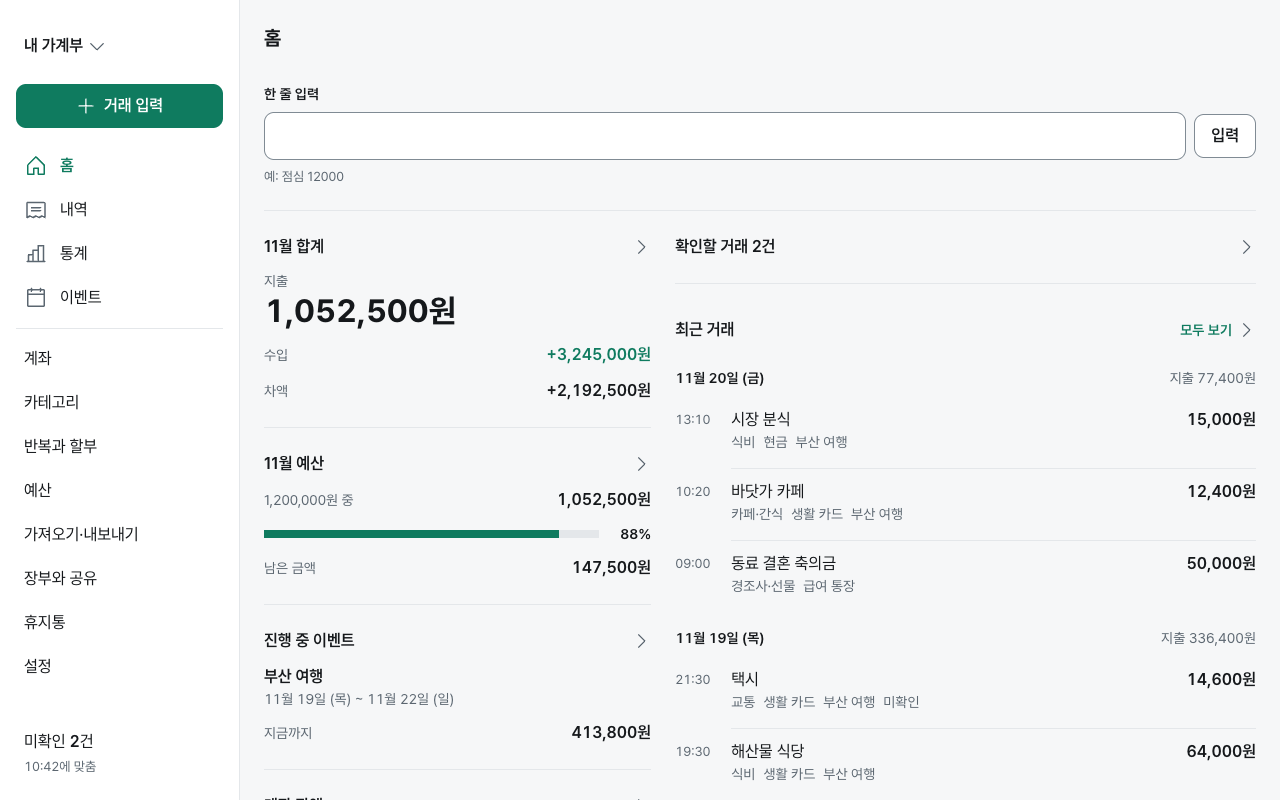
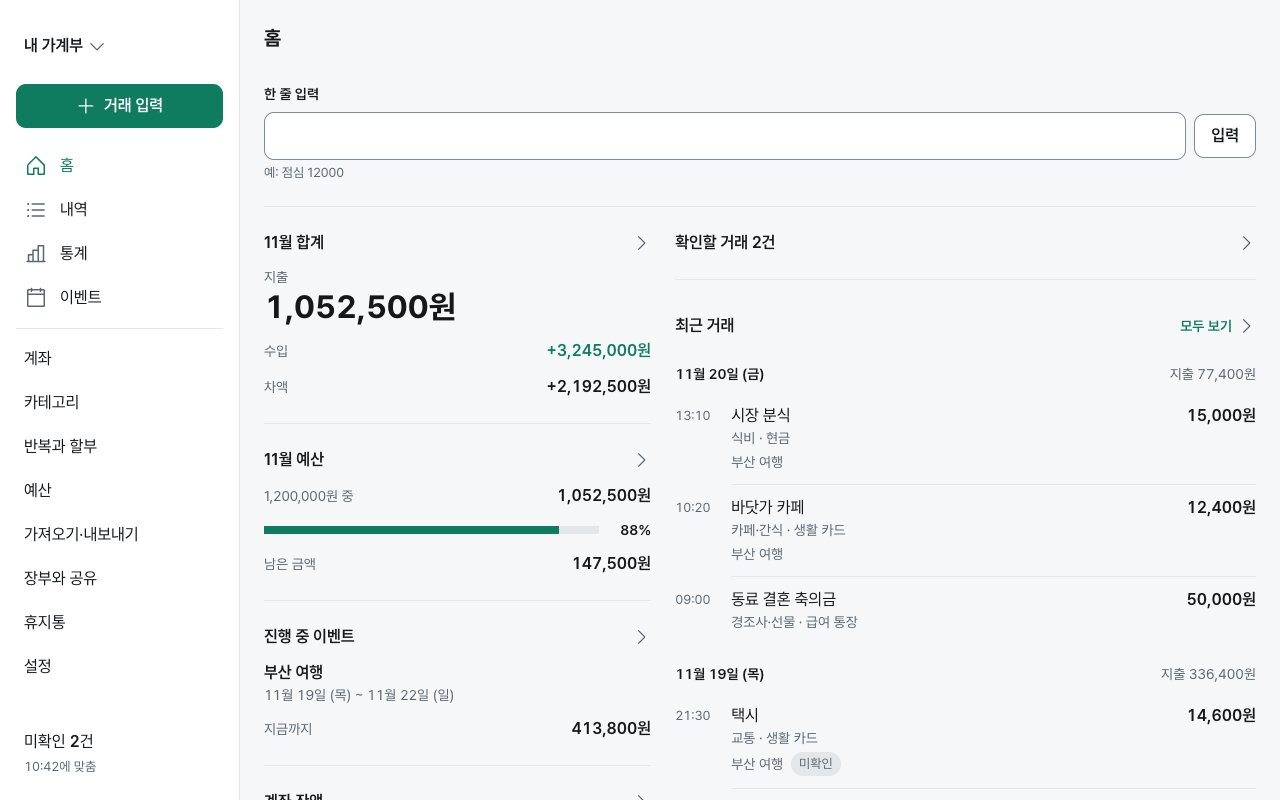
홈 세부 8건(designer)을 반영하고 확인 필요 L-9, L-11~L-17을 닫음
designer가 2026-11-24에 설계서 문장끼리 어긋나거나 수치가 없던 세부를
정했다(이슈 #102).

- drafts/: 거래 줄 구성, 아이콘, 간격을 설계서에 맞춰 다시 찍은 그림
  2장으로 덮어씀(복사본, 고치지 않음)
- layout-decisions.md: L-9, L-11~L-17 결정됨, L-10은 열어 둠. 1~4절의
  수치를 맞춤. 설계서 수정 필요 목록(L-2)에 고칠 곳을 더하고, 정해지지
  않은 값을 L-18에 적음
- components.md: 사이드바 값, 지금 화면 줄(C-8), 거래 줄, 권한을 모를
  때의 거래 입력 칸
- tokens.md: 구역 사이 24px, 큰 숫자, 두 칸, 사이드바 아이콘의 설명
- README.md: 결정 표 13~16, 3절의 예외, 6절 4번과 5번

diff --git a/docs/design/layout-decisions.md b/docs/design/layout-decisions.md
@@ -3,6 +3,7 @@
 - 작성일: 2026-11-24
 - 정정: 2026-11-23에 만든 홈 시안은 와이어프레임과 화면설계서 공통편만 보고 만들어 화면설계서 01 C-01(홈)과 달랐다.
 - 정정: 2026-11-24에 designer가 시안을 화면설계서에 맞게 바로잡고 결정 13~17을 정했다([이슈 #102](https://github.com/lomong7807/akkimpyo/issues/102)). 그림 3장을 새 그림 2장으로 바꿨다.
+- 세부: 2026-11-24에 designer가 설계서 문장끼리 어긋나거나 수치가 없던 세부 8건을 더 정했다(이슈 #102). 5절 L-11~L-17에 적고 1~4절의 수치에 반영했다.
 - 상태: owner가 시안 이미지를 보고 고른 배치 결정(10~12)과 designer 결정(13~17)을 수치로 적는다.
 - 시안은 설계서 토큰과 owner가 추가한 2색으로 만들었고 데이터는 목업 홈과 같다.
 - 그림은 참고이고 기준은 이 문서의 수치다. 시안을 바꾸려면 이 문서의 수치를 고치고 그림을 다시 찍는다.
@@ -26,26 +27,29 @@
 
 그림: [drafts/2026-11-24-home-1280x800.png](drafts/2026-11-24-home-1280x800.png)
 
-- 결정 10에서 남는 것: 왼쪽 사이드바, 전체 폭 한 줄 입력, 그 아래 두 칸, 두 칸은 따로 스크롤하지 않고 내용 영역 전체가 함께 스크롤된다(시안에서 쓴 값). 카드, 오른쪽 440px, 사이드바 수치는 결정 13과 15로 바뀌었다.
+- 결정 10에서 남는 것: 왼쪽 사이드바, 전체 폭 한 줄 입력, 그 아래 두 칸, 두 칸은 따로 스크롤하지 않고 내용 영역 전체가 함께 스크롤된다(시안에서 쓴 값). 카드, 오른쪽 440px, 사이드바 수치, 지금 화면 줄의 굵기 600은 결정 13과 15로 바뀌었다.
 - 틀: 상단 바가 없다(설계서 6.1). 왼쪽 사이드바 폭 240px(설계서 2.5), 오른쪽 내용 영역. 내용 영역 여백 24px(설계서 2.4).
-- 내용 영역: 맨 위에 화면 이름 "홈"(`text-title`), 그 아래 한 줄 입력을 전체 폭으로 두고, 그 아래를 두 칸으로 나눈다.
-- 두 칸: 왼쪽 칸은 내용 폭의 40%(화면설계서 01 C-01), 오른쪽 칸은 나머지, 칸 사이 24px.
+- 내용 영역: 맨 위에 화면 이름 "홈"(`text-title`), 그 아래 한 줄 입력을 전체 폭으로 두고, 그 아래를 두 칸으로 나눈다. 화면 이름 아래 간격은 8px이다(L-13).
+- 두 칸: 왼쪽 칸은 내용 폭의 40%(화면설계서 01 C-01), 오른쪽 칸은 나머지, 칸 사이 24px. 폭은 내용 영역 안쪽 폭에서 칸 사이 24px을 뺀 나머지를 2:3으로 나눈다(1280px 창에서 왼쪽 387px). 홈은 두 칸이라 설계서 2.5의 720px 제한을 적용하지 않는다(L-13).
 - 왼쪽 칸: 이번 달 합계, 예산, 진행 중 이벤트, 계좌 잔액. 오른쪽 칸: 확인할 거래, 최근 거래.
-- 구역은 카드로 감싸지 않는다(결정 13, 4.1).
-- 사이드바는 화면설계서 00-common 6.1~6.7 수치를 따른다. 구성과 순서는 다음과 같다.
+- 구역은 카드로 감싸지 않는다. 구역 사이의 선은 칸의 폭이다(결정 13, 4.1).
+- 사이드바는 화면설계서 00-common 6.1~6.7 수치를 따른다. 설계서에 없는 값은 designer 결정이다(L-14). 구성과 순서는 다음과 같다.
 
-| 자리(위에서부터) | 수치 | 설계서 절 |
-|------------------|------|-----------|
+| 자리(위에서부터) | 수치 | 근거 |
+|------------------|------|------|
+| 사이드바 안쪽 | 여백 위아래 24px, 좌우 16px, 요소 사이 16px | designer 결정(L-14) |
 | 장부 전환기 | `text-body-strong` | 6.3 |
 | "거래 입력" 주 버튼 | 높이 44px | 6.4의 4-1 |
-| 주 메뉴 4개 | 아이콘과 이름 | 6.2의 5-1~5-4 |
+| 메뉴 줄(주 메뉴와 더보기 항목) | 안쪽 좌우 8px | designer 결정(L-14) |
+| 주 메뉴 4개 | 아이콘 24px과 이름, 사이 12px | 6.2의 5-1~5-4, designer 결정(L-14) |
 | 더보기 항목 | 줄 높이 44px, 아이콘 없이 이름만 | 6.2의 5-6 |
 | 맨 아래 묶음 | "미확인 {N}건"과 마지막으로 맞춘 시각 | 6.7의 3-1, 6.5의 2-3 |
 
-- 지금 화면 항목은 설계서 6.2대로 강조하고 모양은 하단 탭과 같이 `color-accent`다([components.md](components.md) 10절 C-8).
+- 지금 화면 줄은 설계서 6.2대로 강조한다. 색만 `color-accent`로 바꾸고 굵기는 바꾸지 않는다(하단 탭과 같다. [components.md](components.md) 10절 C-8, L-14).
 - 버린 안(결정 10): 한 칸을 가운데 720px로 두는 배치. 이유: 최근 거래가 첫 화면에서 보이지 않는다.
 - 버린 안(결정 15): 오른쪽 칸 440px 고정, 11-23 시안의 사이드바 값(아이콘 있는 더보기 항목, 48px 버튼, 장부 이름 `text-title`), 카드. 이유: 설계서 값이 아니고 1024~1111px 폭에서 수치가 맞지 않는다.
-- 확인 필요: 5절 L-9, L-13, L-14.
+- 버린 안(세부): 지금 화면 줄의 굵기 600(결정 10). 이유: 하단 탭과 같게 색만 바꾼다.
+- 정해진 세부: 5절 L-9, L-13, L-14. 확인 필요: 5절 L-18.
 
 ## 2. 빠른 입력 버튼은 하단 탭의 가운데 칸 (owner 결정 11, designer 결정 16)
 
@@ -57,20 +61,20 @@
 - 모양: 44x44px, `color-accent` 바탕, `color-on-accent` Plus 아이콘 24px, 모서리 10px, 그림자 없음, 글자 없음. 접근성 이름 "거래 입력". 칸 안에서 가운데.
 - 칸 순서: 홈, 내역, 거래 입력, 통계, 이벤트, 더보기(6칸, 같은 폭). 이벤트 탭이 없는 1단계는 홈, 내역, 거래 입력, 통계, 더보기(5칸).
 - 보이는 범위(designer 결정 16): 하단 탭이 보이는 모든 화면에서 보이고 보기 전용 구성원에게만 숨긴다.
+- 권한을 아직 모를 때(L-16): 거래 입력 칸의 자리를 비워 두고(다른 탭의 자리는 그대로), 보기 전용으로 확인되면 칸을 없애고 나머지 탭을 같은 폭으로 다시 나눈다.
 - 떠 있는 버튼이 없어지므로 내용 아래 여백은 버튼 몫을 빼고 24px이다. 토스트는 하단 탭 위 16px, 좌우 여백 16px의 폭이다.
 - 넓은 화면은 그대로 사이드바의 "거래 입력" 버튼이다.
 - 버린 안(결정 11): (1) 하단 탭 위에 전체 폭 "거래 입력" 줄을 두는 안. 이유: 모든 화면에서 내용 높이가 65px 줄어든다. (2) 떠 있는 버튼을 그대로 두는 안. 이유: 스크롤 중 목록의 금액을 가린다(390x844에서 `npx impeccable detect`가 금액 83% 가림으로 잡음).
 - 버린 안(결정 16): 설정과 공통 상태 화면에서 숨김(와이어프레임 00-common 3.1). 이유: 화면에 따라 탭 칸 수가 바뀌면 탭 위치가 움직인다.
-- 확인 필요: 5절 L-2, L-3, L-8, L-16. L-1은 결정 16으로 결정됨.
+- 확인 필요: 5절 L-2, L-3, L-8, L-18. L-1은 결정 16으로, L-16은 세부로 결정됨.
 
 ## 3. 휴대폰 배치의 묶음 사이 간격 (owner 결정 12)
 
 그림: 2절의 [drafts/2026-11-24-home-390x844.png](drafts/2026-11-24-home-390x844.png)
 
-- 홈처럼 묶음이 위아래로 쌓이는 화면에서 묶음 사이는 24px이다(설계서 2.4). 첫 묶음 위도 24px.
+- 홈처럼 묶음이 위아래로 쌓이는 화면에서 묶음 사이는 24px이다(설계서 2.4). 첫 묶음 위도 24px. 이 24px은 구역의 내용과 경계 사이로 읽는다(L-11). 홈에서는 선 위아래에 각각 24px이다.
 - 홈의 묶음은 상자나 흰 면으로 감싸지 않고 구분선과 여백으로 나눈다(designer 결정 13, 4.1). 좌우 여백은 16px, 묶음 안 요소 사이는 12px이다. 다른 화면은 화면별 설계서와 와이어프레임 00-common 4절 규칙 7을 따른다.
 - 버린 안: 8px(목업의 값). 이유: 설계서 값이 아니고 묶음의 경계가 덜 분명하다.
-- 확인 필요: 5절 L-11.
 
 ## 4. 홈의 구역, 이번 달 합계, 예산 막대 (designer 결정 13, 14, 17)
 
@@ -79,18 +83,20 @@
 ### 4.1 구역 나누기 (결정 13)
 
 - 홈의 구역은 상자로 감싸지 않고 구분선과 여백으로 나눈다(화면설계서 01 C-01).
-- 구역 사이에 1px `color-border` 선, 선 위아래 여백 24px. 구역 안 요소 사이 12px.
+- 구역 사이에 1px `color-border` 선, 선 위아래에 각각 여백 24px. 구역 안 요소 사이 12px.
+- 휴대폰에서 선은 화면 좌우 끝까지 닿는다. 넓은 화면에서 선은 칸의 폭이다(L-11).
 - 휴대폰 좌우 여백 16px, 넓은 화면 내용 영역 여백 24px.
 - 버린 안: 흰 면 묶음과 카드(11-23 시안). 이유: 설계서 정의와 다르고 상자가 늘어난다.
-- 확인 필요: 5절 L-11.
 
 ### 4.2 이번 달 합계 (결정 14)
 
 - 지출만 큰 숫자다: `text-hero`, 왼쪽 정렬, 위에 "지출" 레이블(`text-secondary`).
 - 그 아래 수입과 차액은 줄이다.
+- 큰 숫자는 줄의 금액이 아니라 화면의 머리 숫자라 왼쪽 정렬이다. 금액 오른쪽 정렬 규칙은 이름과 금액이 한 줄에 있는 줄에 적용한다(L-12).
+- 큰 숫자는 줄바꿈하지 않고, 칸 폭을 넘으면(글자 크기 200% 등) `text-title` 크기로 내린다. 구현 검토 때 200%에서 확인한다(L-12).
 - 화면설계서 01 C-01 (2)의 세 줄과 다르다. 설계서 수정 필요 목록(5절 L-2)에 넣었다.
 - 버린 안: 수입, 지출, 차액 세 줄. 이유: 홈에서 가장 먼저 보일 것이 하나 서야 하고 공통편에 "홈의 큰 금액" 글자 단계가 이미 있다.
-- 확인 필요: 5절 L-2, L-12.
+- 확인 필요: 5절 L-2.
 
 ### 4.3 예산 막대 (결정 17)
 
@@ -98,37 +104,40 @@
 - 공통편 2.6의 "지출 막대는 `color-text-secondary`"는 통계 그래프에 적용한다.
 - 버린 안: 회색 막대(11-23 시안).
 
-### 4.4 설계서대로 바로잡은 것 (결정이 아니라 정정)
+### 4.4 설계서대로 바로잡은 것 (정정과 세부)
 
 | 곳 | 바로잡은 모양 | 설계서 |
 |----|---------------|--------|
 | 홈 한 줄 입력의 "입력" | 보조 버튼(높이 44px) | 01 C-01 (1), 00-common 5.1 |
 | 상단 바의 장부 이름 | `text-body-strong` | 00-common 6.3 |
 | 미확인 배지 | 00-common 6.7의 모양 | 00-common 6.7의 3 |
-| 홈의 거래 줄 둘째 줄 | 카테고리, 계좌, 이벤트 이름, 미확인을 보조 글자로 적는다(칩이 아니다). "보내지 않음"만 표시 칩이다 | 01 C-01 (9), (10) |
+| 홈의 거래 줄 | 02의 0.4(거래 줄 공통 부품)를 따른다. 둘째 줄은 "카테고리 · 계좌", 셋째 줄에 이벤트 이름(보조 글자)과 상태 칩이 온다. "미확인"은 표시 칩이다(L-15) | 02의 0.4, 01 C-01 (9) |
+| 아이콘 | 내역 ListBullets, 이벤트 CalendarBlank(L-17) | 00-common 6.2의 5-2, 5-4 |
+| 한 줄 입력의 도움말 | 입력칸 아래 4px(L-17) | 00-common 2.4, 5.2 |
 
-- 확인 필요: 5절 L-15.
+- 버린 안(세부): "미확인"을 보조 글자로. 이유: 02의 0.4와 00-common 5.11은 칩이다.
 
 ## 5. 확인 필요
 
-"열림"인 항목은 owner가 답하기 전에는 구현에서 임의로 정하지 않는다. 정해진 항목은 지우지 않고 상태를 바꿔 남긴다. L-1과 L-2는 designer가 적었고, L-3부터는 이 문서를 옮겨 쓰며 설계서, 와이어프레임, 시안 CSS와 대조하다 찾은 것이다(값은 정하지 않았다). L-10부터는 2026-11-24 정정 때 더했다.
+"열림"인 항목은 정해지기 전에는 구현에서 임의로 정하지 않는다(누가 정하는지는 [README](README.md) 6절). 정해진 항목은 지우지 않고 상태를 바꿔 남긴다. L-1과 L-2는 designer가 적었고, L-3부터는 이 문서를 옮겨 쓰며 설계서, 와이어프레임, 시안 CSS와 대조하다 찾은 것이다(값은 정하지 않았다). L-10부터는 2026-11-24 정정 때 더했다.
 
 | # | 상태 | 내용 | 관련 |
 |---|------|------|------|
 | L-1 | 결정됨(designer 결정 16, 2026-11-24) | 설계서는 빠른 입력 버튼을 M 그룹(설정), N 그룹 화면에서 숨긴다(와이어프레임 00-common 3.1). 탭의 한 칸이 되면 화면에 따라 탭 칸 수가 바뀌어 탭 위치가 움직인다. 결정: 하단 탭이 보이는 모든 화면에서 보이고 보기 전용 구성원에게만 숨긴다 | 결정 11, 16 |
-| L-2 | 열림(설계서 수정) | 결정 11에 맞춰 고쳐야 하는 기준 문서: 와이어프레임 00-common 3.1의 (4)와 (5), 화면설계서 00-common의 2.4(빠른 입력 버튼 그림자와 56x56px), 5.7(토스트 폭), 6.1(내용 아래 여백), 6.2(B-01), 6.4(B-03), 기능정의서 F-102. 결정 14에 맞춰 고쳐야 하는 기준 문서: 화면설계서 01 C-01 (2). 결정 16에 맞춰 고쳐야 하는 기준 문서: 기능정의서 F-102와 와이어프레임 00-common 3.1의 보이는 범위. 이 폴더는 `docs/planning`을 고치지 않는다 | 결정 11, 14, 16 |
+| L-2 | 열림(설계서 수정) | 설계서 수정 필요 목록이다. 결정 11에 맞춰 고쳐야 하는 기준 문서: 와이어프레임 00-common 3.1의 (4)와 (5), 화면설계서 00-common의 2.4(빠른 입력 버튼 그림자와 56x56px), 5.7(토스트 폭), 6.1(내용 아래 여백), 6.2(B-01), 6.4(B-03), 기능정의서 F-102. 결정 14에 맞춰 고쳐야 하는 기준 문서: 화면설계서 01 C-01 (2), C-01의 "금액은 모두 숫자 폭 고정(tabular-nums), 오른쪽 정렬"과 데이터 없음의 "수입 0원", "지출 0원", "차액 0원" 순서, 00-common 2.2의 금액 정렬, 와이어프레임 00-common 4절 규칙 4, 와이어프레임 01 C-01 그림의 (2). 결정 16에 맞춰 고쳐야 하는 기준 문서: 기능정의서 F-102와 와이어프레임 00-common 3.1의 보이는 범위. L-11에 맞춰: 화면설계서 00-common 2.4의 "묶음(섹션) 사이 24px"(읽는 법). L-13에 맞춰: 화면설계서 00-common 2.5의 720px 제한(홈은 적용하지 않음). L-15에 맞춰: 화면설계서 01 C-01 (9)와 (10)의 둘째 줄, 와이어프레임 01 C-01 그림의 (10), 화면설계서 02 0.4의 쓰는 곳(C-01이 없다). 이 폴더는 `docs/planning`을 고치지 않는다 | 결정 11, 14, 16, L-11, L-13, L-15 |
 | L-3 | 열림(설계서 수정) | L-2 말고도 떠 있는 빠른 입력 버튼을 적은 곳이 더 있다(grep으로 찾음): 화면설계서 00-common 2.5의 두 줄(768px 미만, 768px 이상 1024px 미만), 2.6의 층 순서, 6.1의 표 (4), 6.6의 B-05 공통 틀 줄, 9절 판단 47과 54, IA 2절 B-03, 화면설계서 01과 와이어프레임 01의 "공통 틀" 줄들(M 그룹, N 그룹, A-08, A-09에 "빠른 입력 버튼은 없다") | 결정 11 |
 | L-4 | 결정됨(설계서를 따름, designer 결정 15, 2026-11-24) | 결정 10의 처음 수치가 기준 문서와 달랐다: 화면설계서 01 C-01의 넓은 화면(왼쪽이 "내용 폭의 40%"), C-01의 "구역은 상자로 감싸지 않고 구분선과 여백으로 나눈다"와 와이어프레임 00-common 4절 규칙 7(상자는 꼭 필요한 곳에만), 00-common 6.2의 5-6(더보기 항목은 "아이콘 없이 이름만"), 6.3(장부 전환기 이름은 `text-body-strong`), 6.4의 4-1(사이드바 거래 입력 버튼 높이 44px), 6.7의 3-1(사이드바 글자는 "미확인 {N}건", `text-body`). 결정: 모두 설계서를 따른다(상자는 결정 13). 이 항목으로 고칠 기준 문서는 없다 | 결정 10, 13, 15 |
 | L-5 | 결정됨(홈, designer 결정 15, 2026-11-24) | 결정 10의 처음 수치로는 폭 1024px 이상 1112px 미만에서 왼쪽 칸 최소 360px을 지킬 수 없었다(사이드바 240 + 여백 24 + 왼쪽 360 + 간격 24 + 오른쪽 440 + 여백 24 = 1112px). 결정: 왼쪽 칸은 내용 폭의 40%다. 목록 화면에 남는 것은 L-10 | 결정 10, 15 |
 | L-6 | 결정됨(항목별, 2026-11-24) | 11-23 시안의 그림이 설계서와 달랐던 곳과 결정: (1) "입력" 버튼이 주 버튼이라 넓은 화면에 주 버튼이 둘이었다: 설계서대로 보조 버튼이다(화면설계서 01 C-01 (1)). (2) 이번 달 합계가 지출(`text-hero`), 수입, 차액 순서였다: 결정 14. (3) 예산 막대의 채움이 `color-text-secondary`였다: 결정 17. (4) 휴대폰 상단 바의 장부 이름이 20px, 700이고 확인할 거래가 아이콘과 숫자였다: 설계서대로 한다(00-common 6.3, 6.7) | 결정 14, 17, 4.4 |
 | L-7 | 해당 없음(시안 값 삭제, 2026-11-24) | 11-23 시안 CSS에는 있으나 결정의 수치에 없는 간격이 있었다: 사이드바 메뉴 줄과 장부 전환기의 좌우 안쪽 8px, 메뉴 구분선의 위아래 8px, 맨 아래 건수와 시각 사이 4px, 하단 탭의 좌우 16px(390px에서 칸 폭 약 60px) | 결정 10, 11 |
 | L-8 | 열림 | 6칸일 때 거래 입력은 셋째 칸이라 한가운데가 아니다. 한가운데가 되는 것은 1단계의 5칸이다. 2절 제목의 "가운데 칸"과 칸 순서가 어긋나며, 순서는 결정 11에 적힌 대로 두었다 | 결정 11 |
-| L-9 | 열림 | 사이드바 맨 아래 묶음의 "보내지 않은 입력 {N}건"(화면설계서 6.5의 2-4)은 시안에 보이지 않고 결정에 자리와 모양이 없다. 사이드바 더보기 항목 8개의 아이콘 이름도 화면설계서에 없다(6.2는 아이콘을 두지 않는다) | 결정 10 |
-| L-10 | 열림 | L-5에 함께 적었던 것 가운데 목록 화면에 남는 것: 설계서 2.5의 목록 칸 최소 360px과 오른쪽 칸 440px을 더하면 800px이라 1024px 폭의 내용 영역 784px보다 크다. 결정 15는 홈만 정한다 | 설계서 2.5 |
-| L-11 | 열림 | 결정 12의 "묶음 사이 24px"과 결정 13의 "선 위아래 여백 24px"을 함께 두면 위아래 두 구역의 내용 사이는 24 + 1 + 24 = 49px이다(그림도 그렇다). 설계서 2.4의 "묶음(섹션) 사이 24px"을 선 한쪽의 여백으로 읽는 것이 맞는지 적혀 있지 않다. 휴대폰의 선이 화면 좌우 끝까지 닿는지도 적혀 있지 않다(그림은 휴대폰 390px 전체, 넓은 화면은 여백 24px 안) | 결정 12, 13 |
-| L-12 | 열림 | 결정 14에 맞춰 고칠 곳이 C-01 (2) 말고도 있다: C-01의 "금액은 모두 숫자 폭 고정(tabular-nums), 오른쪽 정렬"과 와이어프레임 00-common 4절 규칙 4(결정 14는 왼쪽 정렬), C-01 데이터 없음의 "수입 0원", "지출 0원", "차액 0원" 순서, 와이어프레임 01 C-01 그림의 (2). 또 글자를 200%로 키우면(설계서 2.3, F-903) 큰 숫자가 휴대폰 내용 폭을 넘을 수 있다: 그림에서 잰 "1,052,500원"이 약 185px이라 두 배면 약 370px이고 390px 폭의 내용 폭은 358px이다(추정). 넘칠 때 어떻게 보일지 정해져 있지 않다 | 결정 14 |
-| L-13 | 열림 | "내용 폭의 40%"에서 내용 폭이 무엇인지 적혀 있지 않다. 1280px 화면에서 여백을 뺀 992px의 40%는 396.8px, 여백을 포함한 1040px의 40%는 416px이고, 그림은 칸 사이 24px까지 뺀 968px의 40%인 387px이다. 설계서 2.5는 목록 화면이 아니면 내용 폭을 가운데 720px로 제한하는데 그림은 제한하지 않았다. 화면 이름 "홈"과 한 줄 입력 사이 간격(그림 32px)도 정해져 있지 않다 | 결정 15 |
-| L-14 | 열림 | 사이드바에 설계서 6.1~6.7로 정해지지 않는 값이 있다: 안쪽 여백과 요소 사이 간격, 주 메뉴 줄의 높이, 글자 단계, 아이콘 크기(2.4는 하단 탭 24px, 줄 안 20px이고 그림은 24px). 지금 화면 줄의 글자 굵기도 어긋난다: 결정 10과 그림은 600이고 C-8은 `color-accent`만 정한다(하단 탭은 6.2에서 색만 바꾼다) | 결정 10, 15, [components.md](components.md) C-8 |
-| L-15 | 열림 | 거래 줄의 정의가 설계서끼리 다르다. "미확인"은 01 C-01 (9)에서는 둘째 줄 보조 글자이고, 00-common 5.11과 02의 0.4, D-01 (11)에서는 칩이다. 결제한 사람과 이벤트 이름은 C-01 (9)에서는 둘째 줄, 02의 0.4에서는 셋째 줄이다. 카테고리와 계좌 사이는 02의 0.4에서는 가운뎃점("식비 · 신한카드")이고 그림에서는 간격이다. C-01 (9)는 "줄 구성은 내역(F-215)과 같다"고도 적는다. 4.4는 C-01 (9)를 따랐다. 홈과 내역의 거래 줄을 같은 모양으로 할지 정해져 있지 않다 | 4.4 |
-| L-16 | 열림 | 설계서 6.4는 현재 장부의 권한을 아직 모르면(앱을 처음 열 때) 빠른 입력 버튼을 그리지 않는다. 하단 탭에 그대로 쓰면 권한을 받는 순간 칸 수가 늘어 탭 위치가 움직인다. 자리를 비워 둘지 정해져 있지 않다 | 결정 11, 16 |
-| L-17 | 열림 | 그림에 설계서와 다른 곳이 남아 있다: 내역 아이콘이 영수증 모양이다(두 그림. 6.2는 ListBullets). 휴대폰 이벤트 탭 아이콘이 별이 든 달력이다(6.2는 CalendarBlank). 한 줄 입력의 칸과 도움말 사이가 8px이다(2.4와 5.2는 4px). 결정에 없는 값이므로 설계서를 따른다(README 3절). 그림을 다시 찍을지 정해져 있지 않다 | 그림 두 장 |
+| L-9 | 결정됨(designer 결정 15, 2026-11-24) | 사이드바 맨 아래 묶음의 "보내지 않은 입력 {N}건"(화면설계서 6.5의 2-4)은 시안에 보이지 않고 결정 10에 자리와 모양이 없었다. 사이드바 더보기 항목 8개의 아이콘 이름도 화면설계서에 없다(6.2는 아이콘을 두지 않는다). 결정: 보내지 않은 입력 줄은 00-common 6.5의 2-4를 따르고, 더보기 항목에는 아이콘을 두지 않는다 | 결정 10, 15 |
+| L-10 | 열림(내역 화면 시안을 만들 때 designer가 정한다) | L-5에 함께 적었던 것 가운데 목록 화면에 남는 것: 설계서 2.5의 목록 칸 최소 360px과 오른쪽 칸 440px을 더하면 800px이라 1024px 폭의 내용 영역 784px보다 크다. 결정 15는 홈만 정한다 | 설계서 2.5 |
+| L-11 | 결정됨(designer 2026-11-24) | 결정 12의 "묶음 사이 24px"과 결정 13의 "선 위아래 여백 24px"을 함께 두면 위아래 두 구역의 내용 사이는 24 + 1 + 24 = 49px이다. 설계서 2.4의 "묶음(섹션) 사이 24px"을 선 한쪽의 여백으로 읽는지, 휴대폰의 선이 화면 좌우 끝까지 닿는지 적혀 있지 않았다. 결정: 구역 사이는 1px `color-border` 선이고 선 위아래에 각각 24px을 둔다. 결정 12의 24px은 "구역의 내용과 경계 사이"로 읽는다. 휴대폰에서 선은 화면 좌우 끝까지 닿는다. 넓은 화면에서 선은 칸의 폭이다(그림에서 한 줄 입력 아래의 선은 두 칸에 걸친 992px이다) | 결정 12, 13 |
+| L-12 | 결정됨(designer 2026-11-24) | 결정 14의 왼쪽 정렬이 C-01의 "금액은 모두 숫자 폭 고정(tabular-nums), 오른쪽 정렬"과 와이어프레임 00-common 4절 규칙 4와 달랐고, 글자를 200%로 키우면(설계서 2.3, F-903) 큰 숫자가 휴대폰 내용 폭을 넘을 수 있었다: 그림에서 잰 "1,052,500원"이 약 185px이라 두 배면 약 370px이고 390px 폭의 내용 폭은 358px이다(추정). 결정: 큰 숫자는 줄의 금액이 아니라 화면의 머리 숫자라 왼쪽 정렬이다. 금액 오른쪽 정렬 규칙은 "이름과 금액이 한 줄에 있는 줄"에 적용한다. 큰 숫자는 줄바꿈하지 않고, 칸 폭을 넘으면(글자 크기 200% 등) `text-title` 크기로 내린다. 구현 검토 때 200%에서 확인한다. 고칠 기준 문서는 L-2 | 결정 14 |
+| L-13 | 결정됨(designer 2026-11-24) | "내용 폭의 40%"에서 내용 폭이 무엇인지 적혀 있지 않았다(1280px 화면에서 여백을 뺀 992px의 40%는 396.8px, 여백을 포함한 1040px의 40%는 416px). 설계서 2.5는 목록 화면이 아니면 내용 폭을 가운데 720px로 제한한다. 결정: 두 칸의 폭은 내용 영역 안쪽 폭에서 칸 사이 24px을 뺀 나머지를 2:3으로 나눈다(1280px 창에서 왼쪽 387px). 홈은 두 칸이라 2.5의 720px 제한을 적용하지 않는다. 화면 이름 아래 간격은 8px이다 | 결정 15 |
+| L-14 | 결정됨(designer 2026-11-24) | 사이드바에 설계서 6.1~6.7로 정해지지 않는 값이 있었고(2.4의 아이콘 크기에는 사이드바가 없다), 지금 화면 줄의 글자 굵기가 결정 10(600)과 C-8(색만)에서 달랐다. 결정: 안쪽 여백 위아래 24px, 좌우 16px, 요소 사이 16px, 메뉴 줄 안쪽 좌우 8px, 주 메뉴 아이콘 24px과 이름 사이 12px. 지금 화면 줄은 색만 `color-accent`로 바꾸고 굵기는 바꾸지 않는다(하단 탭과 같다). 버린 안: 지금 화면 줄의 굵기 600. 남은 값은 L-18 | 결정 10, 15, [components.md](components.md) C-8 |
+| L-15 | 결정됨(designer 2026-11-24) | 거래 줄의 정의가 설계서끼리 달랐다. "미확인"은 01 C-01 (9)에서는 둘째 줄 보조 글자이고, 00-common 5.11과 02의 0.4, D-01 (11)에서는 칩이다. 결제한 사람과 이벤트 이름은 C-01 (9)에서는 둘째 줄, 02의 0.4에서는 셋째 줄이다. 결정: 거래 줄은 화면설계서 02의 0.4(거래 줄 공통 부품)를 따른다. 둘째 줄은 "카테고리 · 계좌", 셋째 줄에 이벤트 이름(보조 글자)과 상태 칩이 온다. "미확인"은 표시 칩이다. C-01 (9)도 "줄 구성은 내역(F-215)과 같다"고 적으므로 0.4가 기준이다. 버린 안: "미확인"을 보조 글자로. 고칠 기준 문서는 L-2 | 4.4 |
+| L-16 | 결정됨(designer 2026-11-24) | 설계서 6.4는 현재 장부의 권한을 아직 모르면(앱을 처음 열 때) 빠른 입력 버튼을 그리지 않는다. 하단 탭에 그대로 쓰면 권한을 받는 순간 칸 수가 늘어 탭 위치가 움직인다. 결정: 권한을 아직 모를 때는 거래 입력 칸의 자리를 비워 두고(다른 탭의 자리는 그대로), 보기 전용으로 확인되면 칸을 없애고 나머지 탭을 같은 폭으로 다시 나눈다 | 결정 11, 16 |
+| L-17 | 결정됨(designer 2026-11-24) | 앞선 그림이 설계서와 다른 곳이 있었다: 내역 아이콘(영수증 모양), 휴대폰 이벤트 탭 아이콘(별이 든 달력), 한 줄 입력의 칸과 도움말 사이(8px). 결정: 아이콘과 간격은 설계서를 따른다(내역 ListBullets, 이벤트 CalendarBlank, 도움말은 입력칸 아래 4px). 새 그림은 이 값으로 찍었다 | 그림 두 장 |
+| L-18 | 열림 | 그림에는 있으나 결정과 설계서에 없거나 다른 값이 남아 있다: (1) 사이드바 주 메뉴 줄의 높이와 글자 단계(그림 44px, `text-body`). (2) 메뉴 구분선의 위아래(그림 8px), 사이드바 맨 아래 건수와 시각 사이(그림 4px), 하단 탭의 좌우 안쪽(그림 16px), 거래 줄의 둘째 줄과 셋째 줄 사이(그림 4px). (3) 넓은 화면 홈의 거래 줄 좌우 안쪽(그림 0, 설계서 2.4의 목록 줄은 16px). (4) 화면 이름 아래 8px(L-13) 다음에 첫 구역의 위 여백 24px이 더 붙는지(그림은 붙어서 이름과 "한 줄 입력" 사이가 32px) | 결정 15, L-13, L-14, L-15 |

diff --git a/docs/design/components.md b/docs/design/components.md
@@ -26,10 +26,10 @@
 |----------|---------|------|-----------------|------|----|
 | 상단 바(주 화면, 기본 형태) | 탭의 첫 화면(C-01, D-01, E-01, F-01, M-01)과 N 그룹. 휴대폰 배치만 | `color-surface` 바탕, 아래 1px `color-border` 선, 모서리 0. 왼쪽 장부 전환기, 오른쪽 동기화 상태 표시와 미확인 배지. 화면 제목을 두지 않는다 | 높이 56px + 위쪽 안전 영역 | 바 자체는 누를 수 없다 | 6.1, 2.4 |
 | 상단 바(하위 화면) | 목록에서 들어간 상세, 설정, 관리 화면. 휴대폰 배치만 | 왼쪽 뒤로 아이콘 버튼(CaretLeft, 접근성 이름 "뒤로"), 그 오른쪽 화면 이름(`text-title`, 왼쪽 정렬, 한 줄, 넘치면 말줄임표), 오른쪽 끝 화면별 버튼, 그 왼쪽에 동기화 상태 표시. 장부 전환기와 미확인 배지는 없다 | 높이 56px + 위쪽 안전 영역 | 공통 | 6.1, 2.4 |
-| 하단 탭 | 휴대폰 배치(폭 1024px 미만)의 주 내비게이션 | `color-surface` 바탕, 위 1px `color-border` 선, 모서리 0. 칸 폭을 똑같이 나누고 칸마다 아이콘(24px) 위, 이름(`text-caption`) 아래. 고른 탭은 아이콘과 이름이 `color-accent`, 나머지는 `color-text-secondary`. 굵기는 바꾸지 않는다. 칸 순서는 홈, 내역, 거래 입력, 통계, 이벤트, 더보기(6칸)이고, 이벤트 탭이 없는 1단계는 홈, 내역, 거래 입력, 통계, 더보기(5칸)다(owner 결정 11). 거래 입력 칸은 하단 탭이 보이는 모든 화면에서 보이고 보기 전용 구성원에게만 없다(designer 결정 16) | 높이 56px + 아래쪽 안전 영역 | 고른 탭에 `aria-current="page"`. 화면 키보드가 올라오면 숨긴다. 전체 화면 입력에는 없다 | owner 결정 11, designer 결정 16([layout-decisions.md](layout-decisions.md) 2절), 6.2, 6.1 |
-| 사이드바 | 넓은 화면(1024px 이상)의 주 내비게이션 | `color-surface` 바탕, 오른쪽 1px `color-border` 선, 모서리 0. 위에서부터 장부 전환기, 거래 입력 버튼, 주 메뉴(4개, 아이콘과 이름), 구분선, 더보기 항목(`text-body`, 아이콘 없이 이름만), 맨 아래 묶음(미확인, 보내지 않은 입력, 마지막으로 맞춘 시각)은 늘 보이게 고정 | 폭 240px. 더보기 항목 줄 높이 44px | 메뉴 줄은 눌림과 마우스 올림에 `color-press`. 지금 화면 항목(더보기 항목 포함)을 강조하고 모양은 하단 탭과 같이 `color-accent`다(10절 C-8) | 6.1, 6.2, 6.5, 6.7, 2.5, designer 결정 15([layout-decisions.md](layout-decisions.md) 1절). 정해지지 않은 값은 layout-decisions.md 5절 L-9, L-14 |
+| 하단 탭 | 휴대폰 배치(폭 1024px 미만)의 주 내비게이션 | `color-surface` 바탕, 위 1px `color-border` 선, 모서리 0. 칸 폭을 똑같이 나누고 칸마다 아이콘(24px) 위, 이름(`text-caption`) 아래. 고른 탭은 아이콘과 이름이 `color-accent`, 나머지는 `color-text-secondary`. 굵기는 바꾸지 않는다. 칸 순서는 홈, 내역, 거래 입력, 통계, 이벤트, 더보기(6칸)이고, 이벤트 탭이 없는 1단계는 홈, 내역, 거래 입력, 통계, 더보기(5칸)다(owner 결정 11). 거래 입력 칸은 하단 탭이 보이는 모든 화면에서 보이고 보기 전용 구성원에게만 없다(designer 결정 16). 권한을 아직 모를 때는 그 칸의 자리를 비워 둔다(layout-decisions.md 5절 L-16) | 높이 56px + 아래쪽 안전 영역 | 고른 탭에 `aria-current="page"`. 화면 키보드가 올라오면 숨긴다. 전체 화면 입력에는 없다 | owner 결정 11, designer 결정 16([layout-decisions.md](layout-decisions.md) 2절), 6.2, 6.1 |
+| 사이드바 | 넓은 화면(1024px 이상)의 주 내비게이션 | `color-surface` 바탕, 오른쪽 1px `color-border` 선, 모서리 0. 위에서부터 장부 전환기, 거래 입력 버튼, 주 메뉴(4개, 아이콘과 이름), 구분선, 더보기 항목(`text-body`, 아이콘 없이 이름만), 맨 아래 묶음(미확인, 보내지 않은 입력, 마지막으로 맞춘 시각)은 늘 보이게 고정 | 폭 240px. 안쪽 여백 위아래 24px, 좌우 16px, 요소 사이 16px, 메뉴 줄 안쪽 좌우 8px, 주 메뉴 아이콘 24px과 이름 사이 12px(designer 결정, layout-decisions.md 5절 L-14). 더보기 항목 줄 높이 44px | 메뉴 줄은 눌림과 마우스 올림에 `color-press`. 지금 화면 줄(더보기 항목 포함)은 색만 `color-accent`로 바꾸고 굵기는 바꾸지 않는다(하단 탭과 같다, 10절 C-8) | 6.1, 6.2, 6.5, 6.7, 2.5, designer 결정 15([layout-decisions.md](layout-decisions.md) 1절). 정해지지 않은 값은 layout-decisions.md 5절 L-18 |
 | 연결 없음 띠 | 연결 없음이 2초 넘게 이어질 때 모든 화면(요청이 연결 문제로 실패하면 바로). 휴대폰 배치는 상단 바(하위 화면 포함) 바로 아래, 전체 화면 입력은 머리 바로 아래, 넓은 화면은 내용 영역 맨 위 | `color-border` 바탕, `color-text` 글자(`text-secondary` 크기), 앞에 WifiSlash 아이콘 20px, 모서리 0. 문구 "연결이 없어요. 새 거래 입력만 돼요." 내용을 덮지 않고 아래로 민다. 움직임 없이 바로 나타난다 | 높이 40px 이상(글이 길면 두 줄) | 누를 수 없다. `role="status"` | 6.1, 4.3 |
-| 빠른 입력 버튼 | 휴대폰 배치(1024px 미만). 떠 있지 않고 하단 탭의 한 칸이다(owner 결정 11). 하단 탭이 보이는 모든 화면에서 보이고 보기 전용 구성원에게만 없다(designer 결정 16) | `color-accent` 바탕, Plus 아이콘 24px(`color-on-accent`), 모서리 10px(원형 아님, owner 결정 4), 그림자 없음, 글자 없음. 칸 안에서 가운데. 접근성 이름 "거래 입력" | 44 x 44px. 내용 맨 아래 여백은 24px | 처리 중 해당 없음. 화면 키보드가 올라오면 하단 탭과 함께 숨긴다 | owner 결정 11, designer 결정 16([layout-decisions.md](layout-decisions.md) 2절), 6.4, 6.1(설계서 수정 필요, layout-decisions.md 5절 L-2, L-3) |
+| 빠른 입력 버튼 | 휴대폰 배치(1024px 미만). 떠 있지 않고 하단 탭의 한 칸이다(owner 결정 11). 하단 탭이 보이는 모든 화면에서 보이고 보기 전용 구성원에게만 없다(designer 결정 16) | `color-accent` 바탕, Plus 아이콘 24px(`color-on-accent`), 모서리 10px(원형 아님, owner 결정 4), 그림자 없음, 글자 없음. 칸 안에서 가운데. 접근성 이름 "거래 입력" | 44 x 44px. 내용 맨 아래 여백은 24px | 처리 중 해당 없음. 화면 키보드가 올라오면 하단 탭과 함께 숨긴다. 현재 장부의 권한을 아직 모를 때는 칸의 자리를 비워 두고(다른 탭의 자리는 그대로), 보기 전용으로 확인되면 칸을 없애고 나머지 탭을 같은 폭으로 다시 나눈다(designer 결정, layout-decisions.md 5절 L-16) | owner 결정 11, designer 결정 16([layout-decisions.md](layout-decisions.md) 2절), 6.4, 6.1(설계서 수정 필요, layout-decisions.md 5절 L-2, L-3) |
 | 사이드바 거래 입력 버튼 | 넓은 화면의 사이드바. 보기 전용 구성원에게는 없다 | 주 버튼 모양, Plus 아이콘 20px과 "거래 입력" | 높이 44px, 폭은 사이드바 폭에서 좌우 16px을 뺀 값 | 공통 | 6.4, designer 결정 15([layout-decisions.md](layout-decisions.md) 1절) |
 | 장부 전환기 | 상단 바 왼쪽(넓은 화면은 사이드바 맨 위) | 1단계: 장부 이름만 글자로, 아이콘 없음. 2단계부터: 장부 이름(`text-body-strong`, `color-text`, 한 줄, 넘치면 말줄임표)과 CaretDown 20px. 펼친 판은 휴대폰 배치에서 상단 바 바로 아래로 200ms 동안 펼치며 화면 전체 폭, 최대 높이 화면의 70%, 아래 나머지 화면에 `color-scrim`. 넓은 화면은 폭 280px로 내용 위에 겹친다. 장부 줄은 지금 장부에 Check 아이콘(`color-accent`) | 장부 줄 높이 56px 이상 | 1단계는 눌리지 않는다. 2단계부터 `aria-expanded`, 지금 장부 줄에 `aria-current="true"`. 장부 줄은 눌림과 마우스 올림에 `color-press` | 6.3 |
 
@@ -79,7 +79,7 @@
 | 표시 칩 | 상태 글자("미확인", "승인 대기", "보내지 않음", "취소", "환불" 등) | `color-border` 바탕, `color-text-secondary` 글자(`text-caption`), 좌우 8px, 완전히 둥글게. 오류 칩("보낼 수 없음")은 `color-surface` 바탕, 1px `color-danger` 테두리, `color-danger` 글자 | 높이 24px | 누를 수 없다 | 5.11 |
 | 막대 | 통계, 홈, 예산 | 지출 `color-text-secondary`(통계 그래프), 수입 `color-accent`, 예산 초과분 `color-danger`, 남은 칸(바탕) `color-border`. 홈의 예산 막대 채움은 `color-accent`, 초과하면 `color-danger`(designer 결정 17). 모서리 0. 막대 옆에 금액 글자를 늘 함께 둔다. 원 그래프와 선 그래프는 쓰지 않는다 | 정의 없음 | 누를 수 있는 막대는 화면별 설명을 따른다 | 2.6, 2.4, 01 C-01 (3), designer 결정 17([layout-decisions.md](layout-decisions.md) 4.3) |
 
-- 홈(C-01)의 거래 줄은 "보내지 않음"만 표시 칩이고 "미확인" 등은 보조 글자다([layout-decisions.md](layout-decisions.md) 4.4). 설계서끼리 다른 곳은 같은 문서 5절 L-15.
+- 홈(C-01)의 거래 줄은 내역과 같이 화면설계서 02의 0.4(거래 줄 공통 부품)를 따른다. 둘째 줄은 "카테고리 · 계좌", 셋째 줄에 이벤트 이름(보조 글자)과 상태 칩이 온다. "미확인"은 표시 칩이다(designer 결정, [layout-decisions.md](layout-decisions.md) 5절 L-15).
 - 막대 폭처럼 계산한 값은 CSS 변수로 넘긴다. 인라인 `style`로 색이나 크기를 쓰지 않는다([README](README.md) 5절).
 
 ## 6. 대화상자와 알림
@@ -155,6 +155,6 @@
 | C-5 | 열림 | 버튼 밖의 컴포넌트(입력칸, 스위치, 하나만 고르는 선택, 고르는 칩, 유형 고르기)의 비활성 모양이 설계서에 없다. 4.5는 처리 중에 입력 화면의 칸을 바꿀 수 없다고 정하지만 그때의 모양은 적지 않았다 | 1절, 4절 |
 | C-6 | 결정됨(owner 결정 9, 2026-11-23) | 전체 화면 입력의 화면 이름 자리가 문서끼리 달랐다. 00-common 5.5는 "왼쪽 닫기 아이콘 버튼(X), 그 오른쪽 화면 이름"이었고, 02의 D-04 (1)과 F-02 (1), 목업은 "가운데에 화면 이름"이다. 결정: 가운데로 통일한다. 설계서 5.5는 C-9 | 6절, 8절, mockup-differences.md 10번 |
 | C-7 | 열림 | 2.6의 눌림 효과(`scale(0.98)`)를 누를 수 있는 줄에도 쓰는지 정해져 있지 않다(tokens.md T-2와 같다) | 1절, 5절 |
-| C-8 | 결정됨(설계서 6.2를 따름: 지금 화면 항목을 강조. 모양은 하단 탭과 같이 `color-accent`. designer 2026-11-24) | 넓은 화면 사이드바에서 지금 화면 항목을 "강조한다"(6.2)의 모양(글자 색, 바탕)이 정해져 있지 않았다. 하단 탭은 `color-accent` 아이콘과 이름으로 정했다. 결정: 설계서 6.2대로 지금 화면 항목을 강조하고 모양은 하단 탭과 같이 `color-accent`다([layout-decisions.md](layout-decisions.md) 1절. 글자 굵기는 같은 문서 5절 L-14). `color-accent-weak`의 그 밖의 쓰임은 owner 확인 뒤 추가한다(owner 결정 2) | 2절, designer 결정 15 |
+| C-8 | 결정됨(설계서 6.2를 따름: 지금 화면 항목을 강조. 모양은 하단 탭과 같이 `color-accent`. designer 2026-11-24) | 넓은 화면 사이드바에서 지금 화면 항목을 "강조한다"(6.2)의 모양(글자 색, 바탕)이 정해져 있지 않았다. 하단 탭은 `color-accent` 아이콘과 이름으로 정했다. 결정: 설계서 6.2대로 지금 화면 항목을 강조한다. 지금 화면 줄은 색만 `color-accent`로 바꾸고 굵기는 바꾸지 않는다(하단 탭과 같다. [layout-decisions.md](layout-decisions.md) 1절, 5절 L-14). `color-accent-weak`의 그 밖의 쓰임은 owner 확인 뒤 추가한다(owner 결정 2) | 2절, designer 결정 15, layout-decisions.md L-14 |
 | C-9 | 열림(설계서 수정) | 설계서 5.5 수정 필요(owner 결정 2026-11-23, 가운데로 통일). 00-common 5.5의 "그 오른쪽 화면 이름"을 고쳐야 한다. 이 폴더는 `docs/planning`을 고치지 않으므로 설계서 쪽에서 고친다 | 6절, 8절, owner 결정 9 |
 | C-10 | 결정됨(designer 2026-11-23, 새 값 없음) | 유형 고르기(owner 결정 7)에서 칸 사이를 선으로 나누는지(나눈다면 굵기와 색), 고른 칸의 `color-accent-weak` 바탕이 상자의 10px 모서리 안을 어떻게 채우는지가 결정 7에 적혀 있지 않았다. 결정: 칸 사이에는 1px `color-border` 세로선을 둔다. 상자는 넘치는 부분을 잘라(`overflow: hidden`) 고른 칸의 바탕이 바깥 모서리 10px을 따라 잘리게 하고, 칸 자체에는 모서리를 주지 않는다 | 4절, 9절, owner 결정 7 |

diff --git a/docs/design/README.md b/docs/design/README.md
@@ -26,14 +26,14 @@
 3. 목업(`docs/planning/mockup/index.html`).
 
 - 화면설계서와 이 폴더가 어긋나면 화면설계서가 맞다. 어긋난 곳은 어느 쪽도 고치지 않고 owner에게 질문한다.
-- 예외: owner나 designer(4절)가 설계서와 다르게 정했거나 설계서 안의 어긋남을 한쪽으로 정했으면 그 결정을 따른다. 지금은 결정 9(전체 화면 입력의 화면 이름 자리), 결정 11(빠른 입력 버튼), 결정 14(홈의 이번 달 합계), 결정 16(거래 입력 칸이 보이는 범위)이다. 결정 10은 결정 13과 15로 설계서를 따르게 되어 예외가 아니다. 설계서 쪽에서 고칠 곳은 [components.md](components.md) 10절 C-9와 [layout-decisions.md](layout-decisions.md) 5절에 적었다.
+- 예외: owner나 designer(4절)가 설계서와 다르게 정했거나 설계서 안의 어긋남을 한쪽으로 정했으면 그 결정을 따른다. 지금은 결정 9(전체 화면 입력의 화면 이름 자리), 결정 11(빠른 입력 버튼), 결정 14(홈의 이번 달 합계), 결정 16(거래 입력 칸이 보이는 범위), [layout-decisions.md](layout-decisions.md) 5절 L-13(홈의 720px 제한)과 L-15(홈의 거래 줄)이다. 결정 10은 결정 13과 15로 설계서를 따르게 되어 예외가 아니다. 설계서 쪽에서 고칠 곳은 [components.md](components.md) 10절 C-9와 [layout-decisions.md](layout-decisions.md) 5절에 적었다.
 - 목업과 화면설계서가 다르면 화면설계서 값을 따른다(owner 결정 1). 목업 CSS를 옮겨 쓰지 않는다. 다른 곳은 [mockup-differences.md](mockup-differences.md)에 모았다.
 - 각 문서 끝의 "확인 필요"는 이 폴더를 쓰며 설계서에서 정의를 찾지 못했거나 문서끼리 어긋난 곳이다. owner가 답하기 전에는 구현에서 임의로 정하지 않는다.
 
 ## 4. owner 결정과 designer 결정
 
 - 1~12는 owner 결정이다(1~9는 2026-11-23, 10~12는 2026-11-24, 확정).
-- 13~17은 designer 결정이다(2026-11-24). owner에게 묻지 않고 정해 [이슈 #102](https://github.com/lomong7807/akkimpyo/issues/102)에 기록했고, owner가 나중에 뒤집을 수 있다.
+- 13~17은 designer 결정이다(2026-11-24). owner에게 묻지 않고 정해 [이슈 #102](https://github.com/lomong7807/akkimpyo/issues/102)에 기록했고, owner가 나중에 뒤집을 수 있다. 세부 8건([layout-decisions.md](layout-decisions.md) 5절 L-11~L-17)도 같다.
 
 | # | 결정 | 반영한 곳 |
 |---|------|-----------|
@@ -49,10 +49,10 @@
 | 10 | 넓은 화면(1024px 이상)의 홈은 왼쪽 사이드바 240px, 맨 위 전체 폭 한 줄 입력, 그 아래 왼쪽(나머지 폭)과 오른쪽(440px) 두 칸의 카드로 둔다(시안으로 고름). 카드는 결정 13으로, 오른쪽 440px과 사이드바 수치는 결정 15로 바뀌었다 | [layout-decisions.md](layout-decisions.md) 1절, [components.md](components.md) 2절, 10절 C-8 |
 | 11 | 휴대폰 배치의 빠른 입력 버튼은 떠 있지 않고 하단 탭의 한 칸이다(44x44px, 시안으로 고름) | [layout-decisions.md](layout-decisions.md) 2절, [components.md](components.md) 2절, 6절, [tokens.md](tokens.md) 3절, 5~8절 |
 | 12 | 휴대폰 배치에서 묶음 사이는 24px이고 묶음은 좌우 끝까지 닿는 모서리 0의 면이다(시안으로 고름). 24px은 그대로이고, 홈의 묶음을 면으로 두는 부분은 결정 13으로 바뀌었다 | [layout-decisions.md](layout-decisions.md) 3절 |
-| 13 | (designer 결정, 이슈 #102) 홈의 구역은 상자로 감싸지 않고 구분선과 여백으로 나눈다(화면설계서 01 C-01). 구역 사이에 1px `color-border` 선, 선 위아래 여백 24px, 구역 안 요소 사이 12px. 휴대폰 좌우 여백 16px, 넓은 화면 내용 영역 여백 24px | [layout-decisions.md](layout-decisions.md) 3절, 4.1 |
-| 14 | (designer 결정, 이슈 #102) 홈의 이번 달 합계는 지출만 큰 숫자(`text-hero`, 왼쪽 정렬, 위에 "지출" 레이블 `text-secondary`)이고 그 아래 수입과 차액은 줄이다. 화면설계서 01 C-01 (2)의 세 줄과 다르다 | [layout-decisions.md](layout-decisions.md) 4.2, [tokens.md](tokens.md) 2절 |
-| 15 | (designer 결정, 이슈 #102) 넓은 화면(1024px 이상)의 홈은 상단 바가 없고 내용 영역 맨 위에 화면 이름 "홈"(`text-title`), 그 아래 전체 폭 한 줄 입력, 그 아래 두 칸이다. 왼쪽 칸은 내용 폭의 40%(화면설계서 01 C-01), 오른쪽은 나머지, 칸 사이 24px. 사이드바는 화면설계서 00-common 6.1~6.7 수치를 따른다 | [layout-decisions.md](layout-decisions.md) 1절, [components.md](components.md) 2절, 10절 C-8, [tokens.md](tokens.md) 7절 |
-| 16 | (designer 결정, 이슈 #102) 하단 탭의 거래 입력 칸은 하단 탭이 보이는 모든 화면에서 보이고 보기 전용 구성원에게만 숨긴다 | [layout-decisions.md](layout-decisions.md) 2절, [components.md](components.md) 2절 |
+| 13 | (designer 결정, 이슈 #102) 홈의 구역은 상자로 감싸지 않고 구분선과 여백으로 나눈다(화면설계서 01 C-01). 구역 사이에 1px `color-border` 선, 선 위아래에 각각 여백 24px, 구역 안 요소 사이 12px. 선은 휴대폰에서 화면 좌우 끝까지, 넓은 화면에서 칸의 폭이다. 휴대폰 좌우 여백 16px, 넓은 화면 내용 영역 여백 24px | [layout-decisions.md](layout-decisions.md) 3절, 4.1, 5절 L-11, [tokens.md](tokens.md) 3절 |
+| 14 | (designer 결정, 이슈 #102) 홈의 이번 달 합계는 지출만 큰 숫자(`text-hero`, 왼쪽 정렬, 위에 "지출" 레이블 `text-secondary`)이고 그 아래 수입과 차액은 줄이다. 큰 숫자는 줄바꿈하지 않고 칸 폭을 넘으면 `text-title` 크기로 내린다. 화면설계서 01 C-01 (2)의 세 줄과 다르다 | [layout-decisions.md](layout-decisions.md) 4.2, 5절 L-12, [tokens.md](tokens.md) 2절 |
+| 15 | (designer 결정, 이슈 #102) 넓은 화면(1024px 이상)의 홈은 상단 바가 없고 내용 영역 맨 위에 화면 이름 "홈"(`text-title`), 그 아래 전체 폭 한 줄 입력, 그 아래 두 칸이다. 왼쪽 칸은 내용 폭의 40%(화면설계서 01 C-01), 오른쪽은 나머지, 칸 사이 24px(안쪽 폭에서 24px을 뺀 나머지를 2:3으로 나눈다). 사이드바는 화면설계서 00-common 6.1~6.7 수치를 따르고 설계서에 없는 값은 L-14로 정했다. 지금 화면 줄은 색만 `color-accent`로 바꾸고 굵기는 바꾸지 않는다 | [layout-decisions.md](layout-decisions.md) 1절, 5절 L-13, L-14, [components.md](components.md) 2절, 10절 C-8, [tokens.md](tokens.md) 7절 |
+| 16 | (designer 결정, 이슈 #102) 하단 탭의 거래 입력 칸은 하단 탭이 보이는 모든 화면에서 보이고 보기 전용 구성원에게만 숨긴다. 권한을 아직 모를 때는 칸의 자리를 비워 둔다 | [layout-decisions.md](layout-decisions.md) 2절, 5절 L-16, [components.md](components.md) 2절 |
 | 17 | (designer 결정, 이슈 #102) 홈의 예산 막대 채움은 `color-accent`, 초과하면 `color-danger`다(화면설계서 01 C-01 (3)). 공통편 2.6의 "지출 막대는 `color-text-secondary`"는 통계 그래프에 적용한다 | [layout-decisions.md](layout-decisions.md) 4.3, [components.md](components.md) 5절, [tokens.md](tokens.md) 8절, [mockup-differences.md](mockup-differences.md) 11번 |
 
 ## 5. 구현 방식 (frontend와 합의)
@@ -77,8 +77,8 @@
 1. 새 색, 새 글자 크기, 새 간격 값, 새 컴포넌트 변형이 필요하면 이유를 적어 owner에게 묻는다.
 2. 승인되면 이 폴더에 먼저 추가하고, 그다음에 코드에서 쓴다.
 3. 기존 값을 바꿀 때는 모든 화면에 같이 적용할 방법을 함께 낸다. 옛 값과 새 값이 한 화면에 섞이지 않게 한다.
-4. 설계서(`docs/planning`)와 다른 값이 필요하면 설계서를 고치지 않고 owner에게 질문한다(레포 CLAUDE.md).
-5. 모양, 색, 배치, 간격을 정하거나 바꿀 때는 시안 이미지(390x844, 1280x800)로 owner가 고른 뒤에 이 폴더에 반영한다. 버린 안과 이유를 한 줄로 남긴다.
+4. 화면 모양, 색, 배치, 간격은 designer가 화면설계서와 이 폴더의 기준으로 정하고, 시안 이미지(390x844, 1280x800)를 owner에게 보여 준 뒤 이 폴더에 반영한다. 정한 것은 GitHub [이슈 #102](https://github.com/lomong7807/akkimpyo/issues/102)에 한 줄로 남긴다(무엇을 정했나, 이유, 버린 안, 관련 이슈·PR). owner가 바꾸라고 하면 그때 고친다(owner 2026-11-24).
+5. owner에게 먼저 물어야 하는 것은 기획 범위를 바꾸는 것(기능 추가·삭제, 단계 이동)이다. 이슈 #102 본문에 적힌 다른 것도 먼저 묻는다. 설계서(`docs/planning`)와 다르게 정한 값은 설계서를 고치지 않고 "설계서 수정 필요" 목록([layout-decisions.md](layout-decisions.md) 5절 L-2, L-3, [components.md](components.md) 10절 C-9)에 올린다.
 
 ## 7. 검토 방법
 
